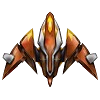
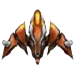
affichage du joueur

diff --git a/main.py b/main.py
@@ -1,4 +1,5 @@
 import pygame
+from player import Player
 
 pygame.init()
 
@@ -8,10 +9,14 @@ screen = pygame.display.set_mode((400, 600))
 background = pygame.image.load("img/fond.jpeg")
 background.convert()
 
+player = Player()
+
 running = True
 
 while running:
     screen.blit(background, (0, 0))
+    screen.blit(player.image, player.rect)
+    
     pygame.display.flip()
     
     for event in pygame.event.get():

diff --git a/player.py b/player.py
@@ -1,0 +1,11 @@
+import pygame
+
+
+class Player(pygame.sprite.Sprite):
+    
+    def __init__(self):
+        super().__init__()
+        self.image = pygame.image.load("img/player.png").convert_alpha()
+        self.rect = self.image.get_rect()
+        self.rect.x = 170
+        self.rect.y = 500
